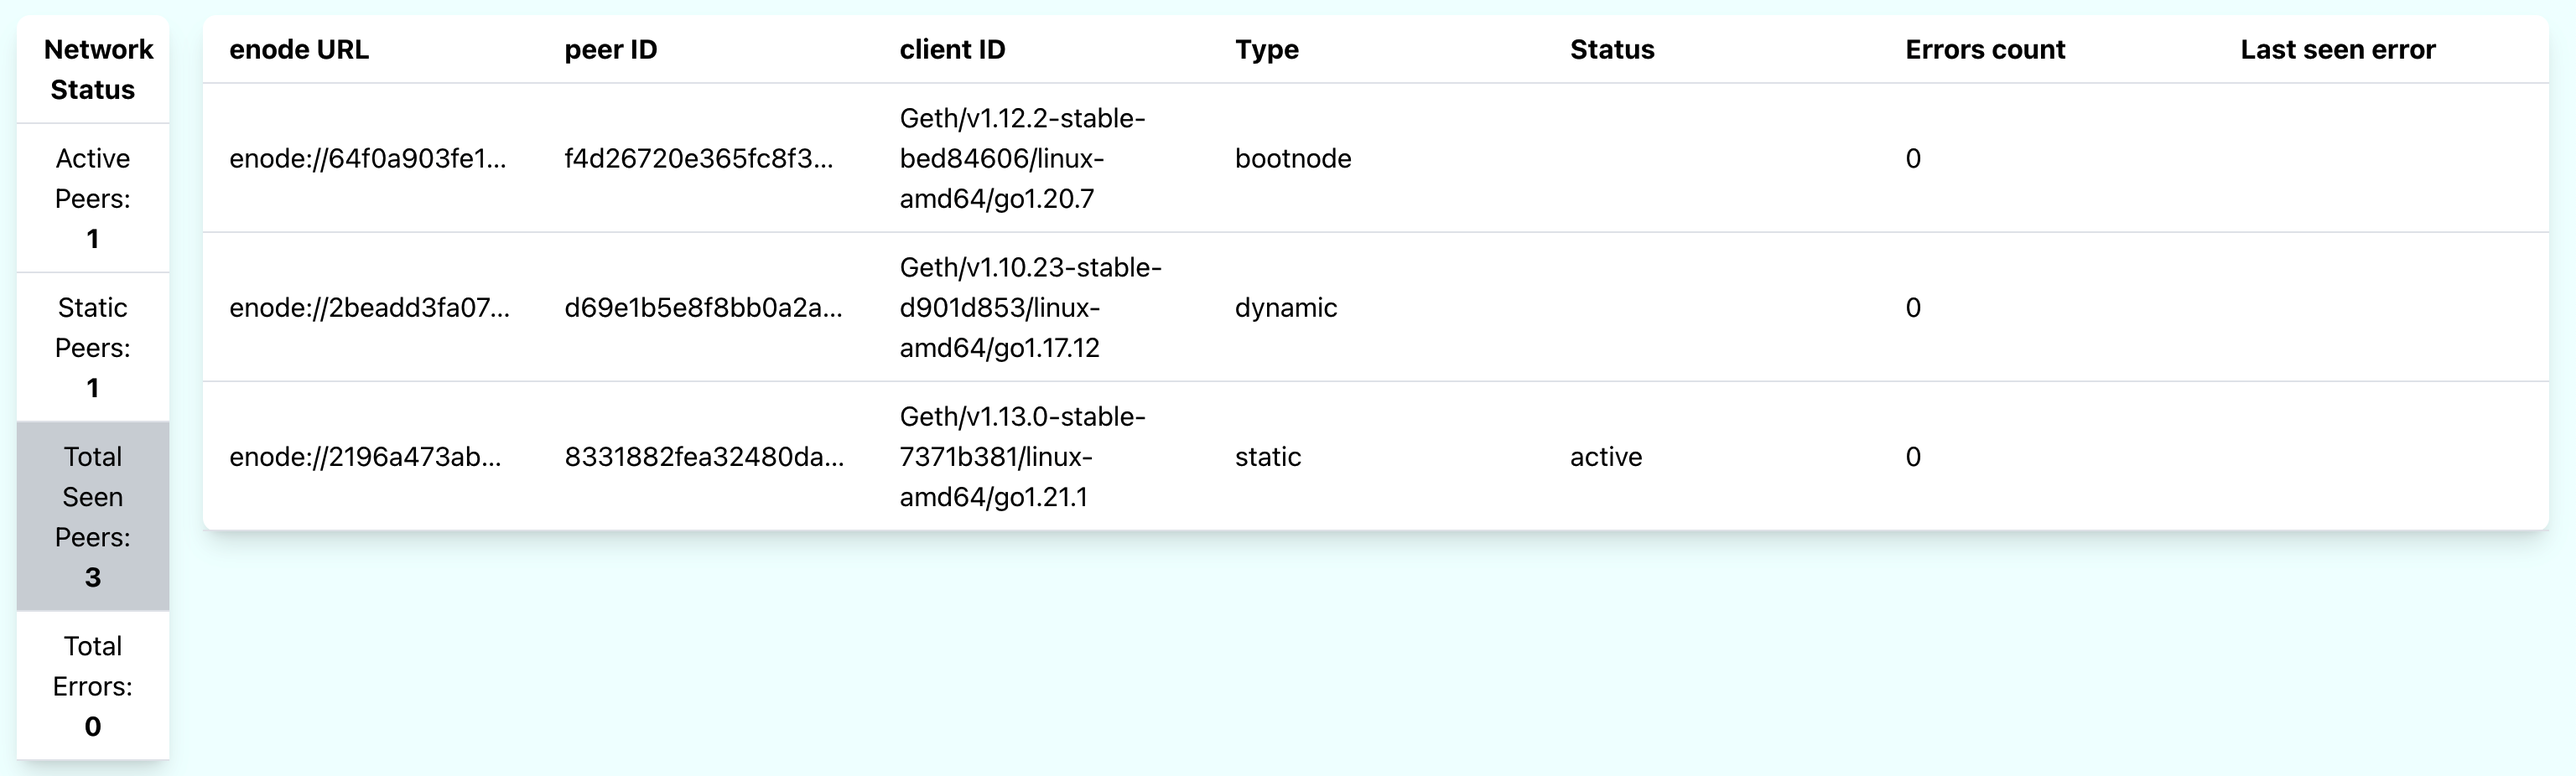
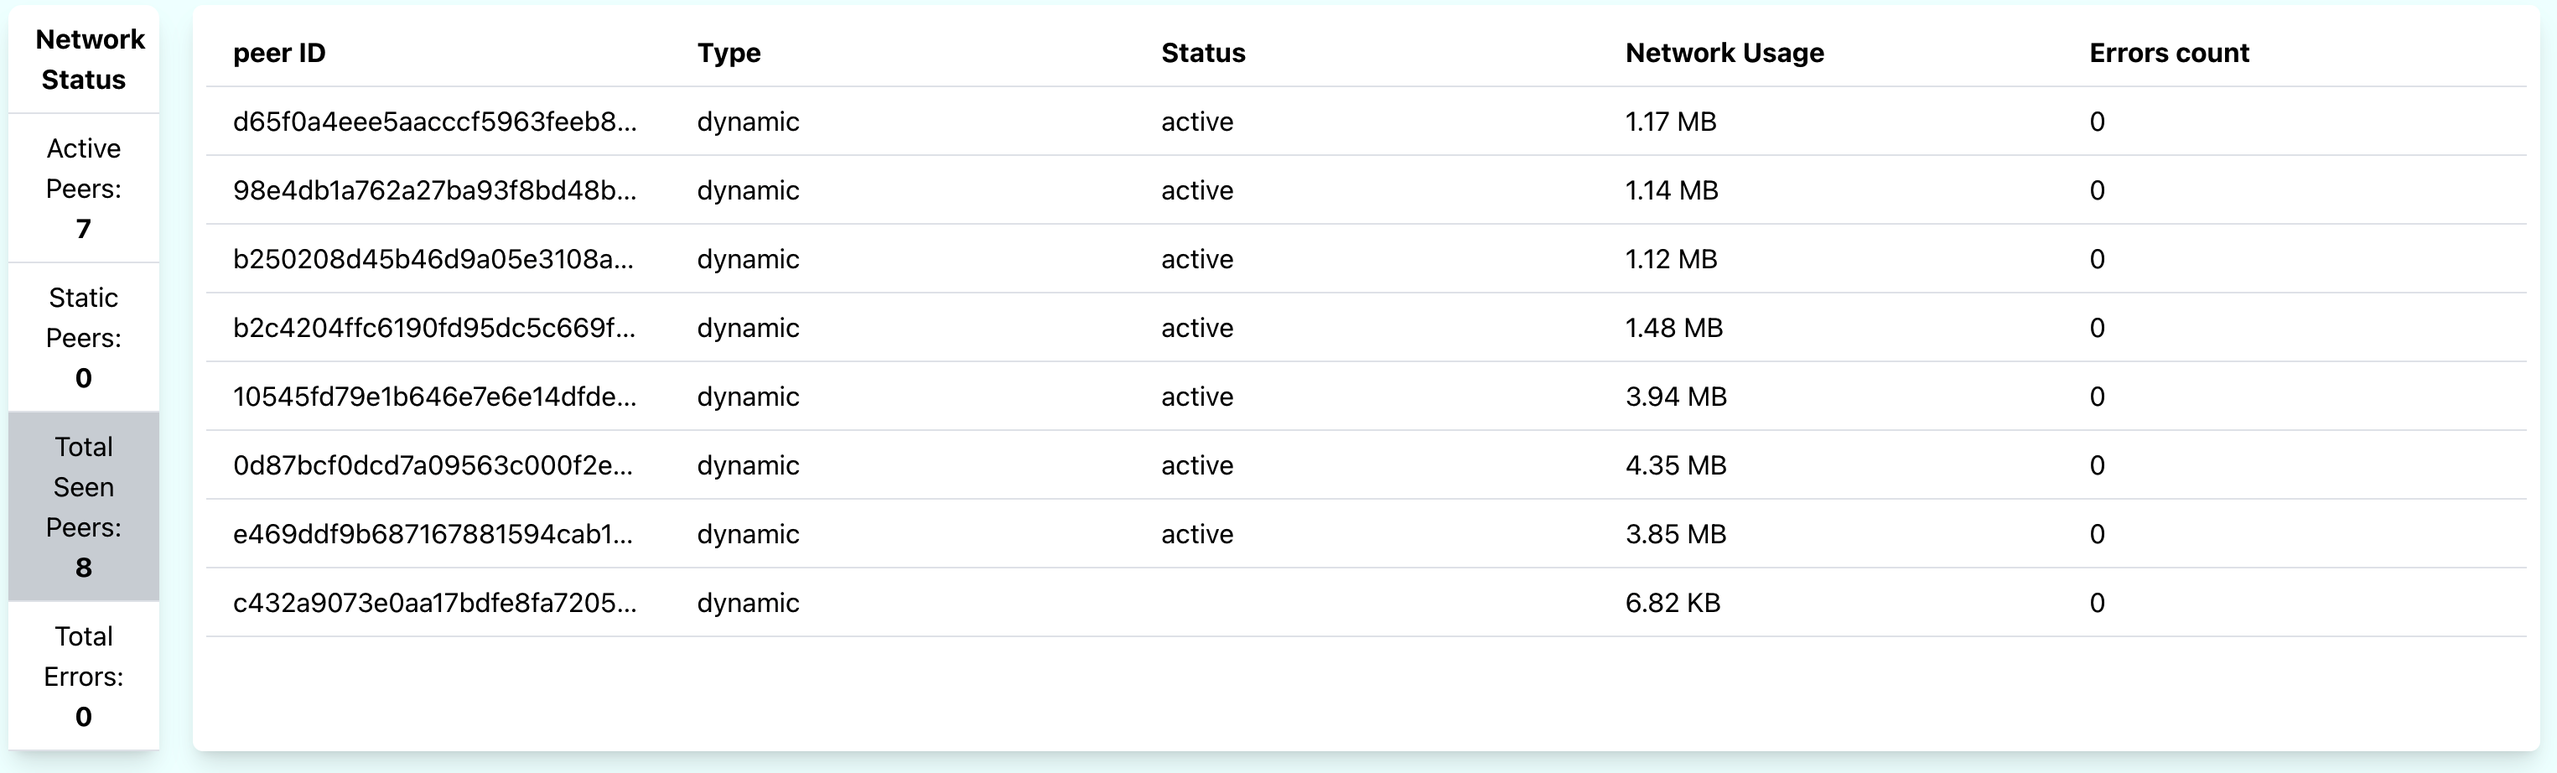
updated readme

diff --git a/README.md b/README.md
@@ -198,7 +198,7 @@ If metrics are exposed, textual representation of metrics will be displayed in t
 # How to connect Erigon node to the diagnostics system
 ![diagnostics system connection](/_images/diagnostics-connection-anim.gif)
 #### Step 1: 
- Open your default web browser. The app's diagnostic user interface (UI) will automatically open at https://localhost:8000 after you run one of the following commands:
+ The app's diagnostic user interface (UI) will automatically open at https://localhost:8000 after you run one of the following commands:
 ```
 ./diagnostics --tls.cert demo-tls/diagnostics.crt --tls.key demo-tls/diagnostics-key.pem --tls.cacerts demo-tls/CA-cert.pem
 ```
@@ -209,7 +209,7 @@ or
 
 
 #### Step 2: 
-In the same web browser, open a new tab and navigate to `https://localhost:8080/ui`. Please note that you may need to accept the security risks associated with the self-signed certificate. This action is required only the first time you access this URL, as your browser will remember your choice for subsequent visits.
+In the same web browser, open a new tab and navigate to `https://localhost`. Please note that you may need to accept the security risks associated with the self-signed certificate. This action is required only the first time you access this URL, as your browser will remember your choice for subsequent visits.
 
 #### Step 3: 
 Return to the app's UI at https://localhost:8000. Follow these steps to create a session:
@@ -342,17 +342,39 @@ Our diagnostics tools allow you to collect and view essential information about 
 
 By clicking on the Active, Static, or Total Seen Peers table, you can access detailed information about each peer. The peer details table includes the following columns:
 
-  - **Enode URL:** The URL of the Erigon node associated with the peer.
   - **Peer ID:** A unique identifier for the peer.
-  - **Client ID:** Details about the connected client, including its name and version (e.g., Geth/v1.13.0-stable-7371b381/linux-amd64/go1.21.1).
   - **Type:** Indicates whether the peer is static, a bootnode, or dynamic.
   - **Status:** Displays the status of the peer, indicating whether it's currently active.
+  - **Network Usage:** Shows the total amount of data sent and received over the network.
   - **Errors Count:** Shows the total count of errors encountered with this peer.
-  - **Last Seen Error:** Provides information about the most recent error seen with this peer.
 
 This detailed peer information allows you to gain insights into your network connections, helping you troubleshoot and manage your network effectively.
 
 ![sync_stage](/_images/peers.png)
+
+### Peer Details Popup
+
+**Main Info:**
+
+- **ID:** A unique identifier for the network peer.
+- **Bytes In:** The total amount of data received by the peer, measured in megabytes (MB).
+- **Bytes Out:** The total amount of data sent by the peer, measured in kilobytes (KB).
+
+**Network Usage By Capability:**
+
+- **Type:** The capability of the communication channel.
+- **Bytes In:** The amount of data received from the peer.
+- **Bytes Out:** The amount of data sent to the peer.
+
+**Network Usage By Type:**
+
+- **Type:** The specific message type. (https://github.com/ethereum/devp2p/blob/master/caps/eth.md#protocol-messages)
+- **Bytes In:** The amount of data received for each type.
+- **Bytes Out:** The amount of data sent for each type.
+
+Use this detailed popup to analyze and monitor the network activity of peers, aiding in troubleshooting, optimizing performance, and resource allocation. It offers a clear and concise breakdown of peer interactions with the network, facilitating better network management and decision-making.
+
+![sync_stage](/_images/peer_details.png)
 
 ## Logs Tab
 
